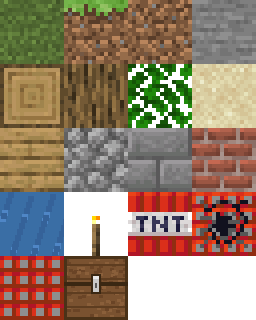
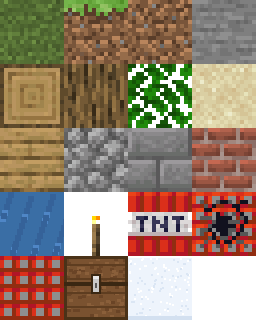
feat(gen): biomes — desert / plains / forest / snow
Phase 2 of the world-gen epic.

biome_at() picks a biome per column from low-freq temperature + humidity fbm
(large regions), plus alpine snow caps above the snow line. gen_chunk_data
now varies the surface + sub-surface block by biome (desert sand, snow, else
grass/dirt; beaches stay sand) and scales tree density (desert bare, snow
taiga-sparse, forest denser).

New block B_SNOW (id 14): atlas tile 18 painted by tools/patch_atlas_snow.mjs
(mesh.c auto-detects ATLAS_ROWS), tile_for/item_name/item_color, shovel-mined
(0.2s), en+hu lang. Renders as a 3D cube icon (no items.png tile needed).

Determinism: gen stays a pure double-only fn; golden reblessed. Bench: gen
~0.10 -> ~0.14 ms/chunk (temp+humid fbm), within budget. phys/sim/net +
--server-test green. Screenshotted desert (treeless sand) + snow (white
surface, sparse taiga).

Changed region(s): [[0.5, 0.9688, 0.75, 1.0], [0.5938, 0.875, 0.6562, 0.9062], [0.6875, 0.8125, 0.7188, 0.8438]]

diff --git a/src/gen.c b/src/gen.c
@@ -112,22 +112,47 @@ static int get_is_air(const uint8_t *blocks, int lx, int y, int lz) {
   return blocks[LI(lx, y, lz)] == B_AIR;
 }
 
-// game.js:111 — genChunk(cx, cz)
+// Biomes (forked): low-freq temperature + humidity noise pick the surface
+// palette and tree density; peaks above the snow line are always snow-capped.
+enum { BIOME_PLAINS, BIOME_DESERT, BIOME_FOREST, BIOME_SNOW };
+#define SNOW_LINE (SEA_Y + 30)
+
+static int biome_at(int wx, int wz, int h) {
+  if (h >= SNOW_LINE) return BIOME_SNOW;     // alpine caps regardless of climate
+  double temp  = fbm((double)wx * 0.0009 + 8000.0, (double)wz * 0.0009 + 8000.0, 3);
+  double humid = fbm((double)wx * 0.0009 + 9000.0, (double)wz * 0.0009 + 9000.0, 3);
+  if (temp < 0.44) return BIOME_SNOW;                    // cold
+  if (temp > 0.58 && humid < 0.46) return BIOME_DESERT;  // hot + dry
+  if (humid > 0.56) return BIOME_FOREST;                 // wet
+  return BIOME_PLAINS;
+}
+
+// genChunk(cx, cz) — forked: biome-aware surface + tree density
 void gen_chunk_data(int cx, int cz, uint8_t *blocks, uint8_t *water) {
   for (int i = 0; i < CHUNK_VOL; i++) { blocks[i] = 0; water[i] = 0; }
   for (int lx = 0; lx < CHUNK; lx++)
     for (int lz = 0; lz < CHUNK; lz++) {
       int wx = cx * CHUNK + lx, wz = cz * CHUNK + lz;
       int h = terrain_height(wx, wz);
+      int biome = biome_at(wx, wz, h);
+      // surface (y==h) + the y>h-3 sub-band vary by biome; beaches stay sand.
+      uint8_t top, sub;
+      if (h <= SEA_Y + 1)             { top = B_SAND;  sub = B_SAND; }
+      else if (biome == BIOME_DESERT) { top = B_SAND;  sub = B_SAND; }
+      else if (biome == BIOME_SNOW)   { top = B_SNOW;  sub = B_DIRT; }
+      else                            { top = B_GRASS; sub = B_DIRT; }
       for (int y = 0; y <= h; y++) {
         blocks[LI(lx, y, lz)] =
           y == 0 ? B_STONE :
-          y == h ? (h <= SEA_Y + 1 ? B_SAND : B_GRASS) :
-          y > h - 3 ? B_DIRT : B_STONE;
+          y == h ? top :
+          y > h - 3 ? sub : B_STONE;
       }
       if (h < SEA_Y) for (int y = h + 1; y <= SEA_Y; y++) water[LI(lx, y, lz)] = 9;
       double forest = fbm((double)wx * 0.012 + 500.0, (double)wz * 0.012 + 500.0, 3);
       double tree_chance = forest > 0.6 ? 0.09 : forest > 0.45 ? 0.02 : 0.0;
+      // desert bare, snow (taiga) sparse, forest denser
+      tree_chance *= biome == BIOME_DESERT ? 0.0 : biome == BIOME_SNOW ? 0.5
+                   : biome == BIOME_FOREST ? 1.2 : 1.0;
       if (h > SEA_Y + 1 && lx >= 2 && lx <= CHUNK - 3 && lz >= 2 && lz <= CHUNK - 3
           && tree_chance > 0.0
           && js_hash2((double)wx * 131.0 + 7.0, (double)wz * 131.0 + 13.0) < tree_chance) {

diff --git a/src/inventory.c b/src/inventory.c
@@ -59,6 +59,7 @@ const char *item_name(int id) {
     case B_STONE_BRICK: return tr("item.stone_brick"); case B_BRICK: return tr("item.brick");
     case B_TNT: return tr("item.tnt");
     case B_TORCH: return tr("item.torch");        case B_CHEST: return tr("item.chest");
+    case B_SNOW: return tr("item.snow");
     case I_SHOVEL: return tr("item.shovel");      case I_PICKAXE: return tr("item.pickaxe");
     case I_SWORD: return tr("item.sword");        case I_BUCKET: return tr("item.bucket");
     case I_WATER_BUCKET: return tr("item.water_bucket"); case I_PORK: return tr("item.pork");
@@ -76,6 +77,7 @@ void item_color(int id, uint8_t rgb[3]) {
     case B_PLANKS: c = 0xb08a4e; break; case B_COBBLE: c = 0x7c7c7c; break;
     case B_STONE_BRICK: c = 0x9a9a9a; break; case B_BRICK: c = 0xa4432e; break;
     case B_TORCH: c = 0xff9a1f; break; case B_CHEST: c = 0x7a5230; break;
+    case B_SNOW: c = 0xf4f8ff; break;
     case B_TNT: c = 0xc0392b; break;  case I_LAVA_BUCKET: c = 0xe2560f; break;
     default: c = 0xccaa88; break;
   }

diff --git a/src/interact.c b/src/interact.c
@@ -16,6 +16,7 @@ static float break_time_base(uint8_t b) {
   switch (b) {
     case B_LEAVES: return 0.2f;
     case B_GRASS: case B_DIRT: case B_SAND: return 0.4f;
+    case B_SNOW: return 0.2f;
     case B_WOOD: return 0.8f;  case B_PLANKS: return 0.7f;
     case B_STONE: case B_STONE_BRICK: return 1.4f;
     case B_COBBLE: case B_BRICK: return 1.2f;
@@ -25,7 +26,7 @@ static float break_time_base(uint8_t b) {
 }
 static int tool_for(uint8_t b) {
   switch (b) {
-    case B_DIRT: case B_GRASS: case B_SAND: return I_SHOVEL;
+    case B_DIRT: case B_GRASS: case B_SAND: case B_SNOW: return I_SHOVEL;
     case B_STONE: case B_COBBLE: case B_STONE_BRICK: case B_BRICK: return I_PICKAXE;
     default: return 0;
   }

diff --git a/src/mesh.c b/src/mesh.c
@@ -18,7 +18,7 @@ enum {
   T_WOOD_TOP = 4, T_WOOD_SIDE = 5, T_LEAVES = 6, T_SAND = 7,
   T_PLANKS = 8, T_COBBLE = 9, T_STONE_BRICK = 10, T_BRICK = 11,
   T_WATER = 12, T_TORCH = 13, T_TNT_SIDE = 14, T_TNT_TOP = 15,
-  T_TNT_BOTTOM = 16, T_CHEST = 17,
+  T_TNT_BOTTOM = 16, T_CHEST = 17, T_SNOW = 18,
 };
 
 // face: 0=top 1=bottom 2=side (JS uses strings)
@@ -38,6 +38,7 @@ static int tile_for(uint8_t block, int face) {
     case B_BRICK:  return T_BRICK;
     case B_TORCH:  return T_TORCH;
     case B_CHEST:  return T_CHEST;
+    case B_SNOW:   return T_SNOW;
     case B_TNT:    return face == F_TOP ? T_TNT_TOP : face == F_BOTTOM ? T_TNT_BOTTOM : T_TNT_SIDE;
     default:       return T_STONE;
   }

diff --git a/src/config.h b/src/config.h
@@ -25,6 +25,7 @@
 #define B_TORCH       11
 #define B_CHEST       12
 #define B_TNT         13
+#define B_SNOW        14
 
 // Water array semantics: 0 none, 1..8 flowing water, 9 source,
 // 11..18 flowing lava, 19 lava source.

diff --git a/CLAUDE.md b/CLAUDE.md
@@ -39,7 +39,7 @@ gcc/mingw32-make come from WinLibs (winget, not on PATH in every shell — see m
 
 ## Architecture (src/)
 
-- `gen.c` — deterministic terrain noise (ECMA ToInt32 emulation, doubles only, `x*x*sqrt(x)` not pow, `-ffp-contract=off`, never -ffast-math). hash2/valueNoise/fbm are the original JS port; `terrain_height`/`gen_chunk_data` have FORKED from JS (masked ridged mountains + carved rivers; more phases planned: biomes/ores/caves). Invariant is now C↔C determinism, guarded by the C golden `tests/gen_golden.txt`. **Don't touch without the gate; re-bless the golden for intentional changes.**
+- `gen.c` — deterministic terrain noise (ECMA ToInt32 emulation, doubles only, `x*x*sqrt(x)` not pow, `-ffp-contract=off`, never -ffast-math). hash2/valueNoise/fbm are the original JS port; `terrain_height`/`gen_chunk_data` have FORKED from JS (masked ridged mountains + carved rivers; temp/humidity biomes: desert/plains/forest/snow + alpine snow caps, per-biome surface + tree density; more planned: ores/caves). Invariant is now C↔C determinism, guarded by the C golden `tests/gen_golden.txt`. **Don't touch without the gate; re-bless the golden for intentional changes.**
 - `world.c` — chunk hash map (16×16×64, blocks+water arrays); `light.c` — two-channel flood-fill light + AO; `mesh.c` — chunk mesher, atlas UVs, day-night shader (r=sky darkens, g=torch stays), fluid buckets (double-sided, no depth write), chunk streaming.
 - `physics.c` — AABB swept collision, stats/damage/eat; `interact.c` — mining w/ tool speeds + crack overlay, place, buckets; `fluids.c` — fixed-tick active-set water/lava sim; `entities.c` — sand, TNT (explosions enqueue deferred remesh), drops, pigs (boxel + MC UV unwrap), hostile mobs (zombie melee / skeleton arrows / creeper fuse+explode_at; classic 64x32 skin unwraps generated by `tools/make_mobs.mjs`; night spawn, day burn except creeper; flat arrays, no ECS — 16 mobs cost 0.015 ms/frame). **Mob sync**: server elects the oldest client as authority (SV_MASTER); it simulates AI targeting the nearest player and streams CL_MOBS snapshots at 10 Hz (SV_MOBS to others; server drops non-master snapshots); mirrors lerp + run damage vs their OWN player in local_hazards (each client owns its health); non-masters fight via CL_MOB_HIT; explosions broadcast CL_BOOM (replayed via explode_remote, no chain/re-emit) + per-block edits for the server log (apply_edit skips no-change edits to avoid remesh floods). Offline = authority, so single-player unchanged. Debug spawns: `/zombie /skeleton /creeper [n]` (authority only).
 - `inventory.c` — 36 slots, shaped/shapeless recipes, chests; `ui.c` — HUD/panels/chat+commands (hit_test must mirror draw_panel layout exactly!); `sky.c` — day cycle, sun/moon, clouds; `lang.c` — key=value localization tables (`tr("key")`, falls back to the key; no raylib dep — linked into phys/sim tests via inventory.c's item_name); `hand.c` — first-person held item (port of game.js handScene); `touch.c` — mobile controls (latches on first touch; floating joystick + drag-look + mine/place/jump/bag buttons + hotbar taps; main.c MUST skip the desktop mouse path in touch mode or raylib's touch→virtual-mouse mapping makes every look-drag mine); `metrics.c` — F3-cycled live metrics (off → compact → graphs; frame/RTT ring buffers, sparklines, `CRAFT_METRICS=0..2` env for tests, interp stall counter lives in interp.c as `interp_extrap_frames`).
@@ -57,4 +57,4 @@ gcc/mingw32-make come from WinLibs (winget, not on PATH in every shell — see m
 - raylib-web resizes the canvas behind GLFW's back → main.c pushes CSS size through SetWindowSize each change or mouse coords scale wrong (fullscreen bug).
 - wasm connect is async — never retry ws_connect every frame (stacks CONNECTING sockets); backoff schedule handles it.
 - Headless testing: playwright + system Edge (`--use-angle=swiftshader --enable-unsafe-swiftshader`); synthetic key/mouse presses must be HELD ~80 ms or raylib's edge detector misses them.
-- Asset staleness (fixed, keep it that way): native copies assets via the always-run `copy_assets` target (a POST_BUILD copy silently skips when the exe is up to date); wasm bakes assets into craft.data at LINK time, so the web target has LINK_DEPENDS on assets/* (new asset FILES still need a reconfigure — glob). atlas.png tile 17 = chest (painted by tools/patch_atlas_chest.mjs; the legacy craft_js make_atlas.js only knows tiles 0-13).
+- Asset staleness (fixed, keep it that way): native copies assets via the always-run `copy_assets` target (a POST_BUILD copy silently skips when the exe is up to date); wasm bakes assets into craft.data at LINK time, so the web target has LINK_DEPENDS on assets/* (new asset FILES still need a reconfigure — glob). atlas.png tile 17 = chest (tools/patch_atlas_chest.mjs), tile 18 = snow (tools/patch_atlas_snow.mjs); the legacy craft_js make_atlas.js only knows tiles 0-13. mesh.c auto-detects ATLAS_ROWS from the PNG height, so new tiles can grow the atlas a row.
